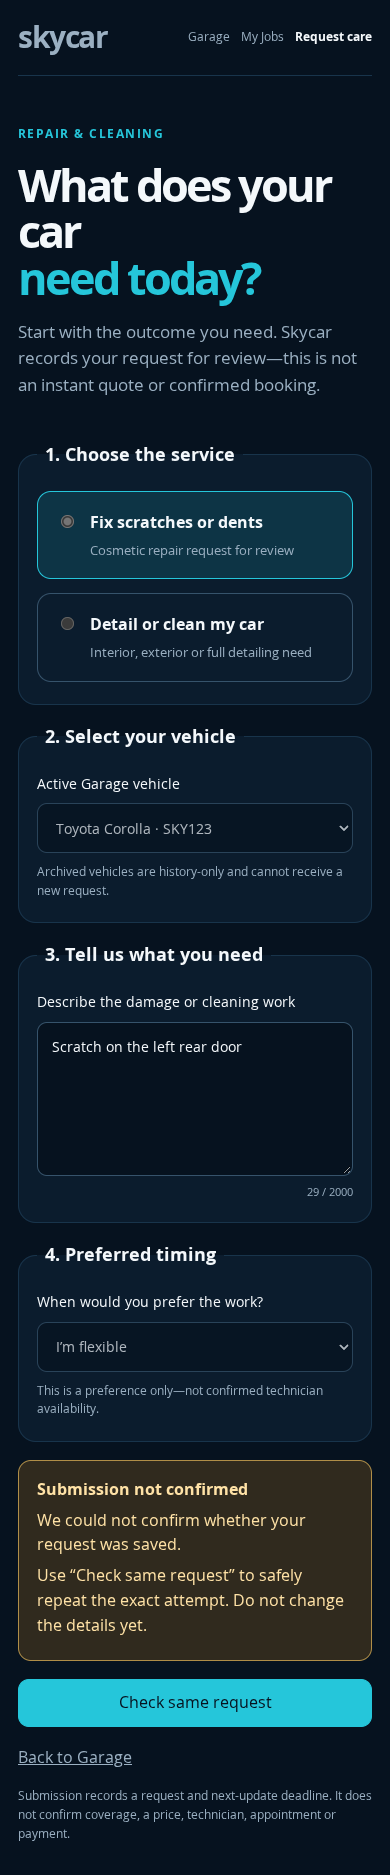
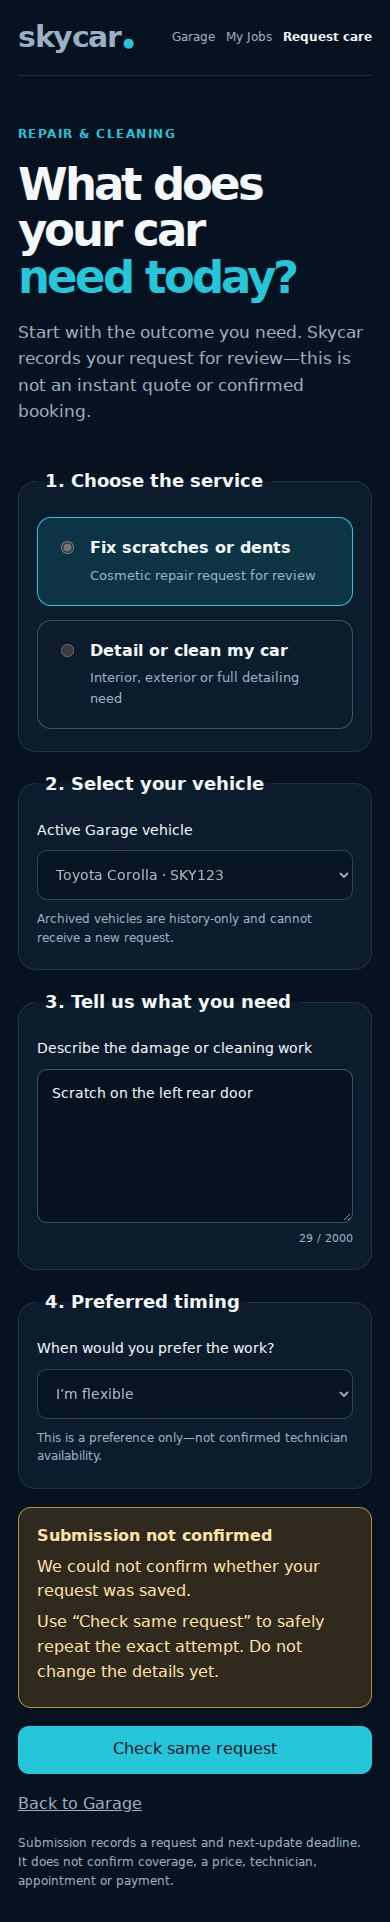
fix(care): preserve request state across focus

diff --git a/src/features/care/request-form.tsx b/src/features/care/request-form.tsx
@@ -82,36 +82,50 @@ export function CareRequestForm() {
   const [access, setAccess] = useState<AccessState>("ready");
   const [error, setError] = useState<SubmitError | null>(null);
   const [uncertain, setUncertain] = useState(false);
+  const selectedVehicle = useRef("");
   const pending = useRef<Pending | null>(null);
   const controller = useRef<AbortController | null>(null);
   const accountEpoch = useRef(0);
+
+  const selectVehicle = useCallback((id: string) => {
+    selectedVehicle.current = id;
+    setVehicleId(id);
+  }, []);
 
   const clearAccountState = useCallback(() => {
     accountEpoch.current += 1;
     pending.current = null;
     setVehicles([]);
-    setVehicleId("");
+    selectVehicle("");
     setService("repair");
     setDescription("");
     setPreferredWindow("flexible");
     setError(null);
     setUncertain(false);
-  }, []);
+  }, [selectVehicle]);
 
   const loadVehicles = useCallback(async () => {
+    // A pending key/body is the customer's one durable command. Background
+    // focus/page-return refreshes must not invalidate it or create a second one.
+    if (pending.current) return;
     controller.current?.abort();
     const current = new AbortController(); controller.current = current;
-    clearAccountState();
+    const previousVehicle = selectedVehicle.current;
     setLoading(true); setAccess("ready");
     try {
       const result = await loadActiveVehicles(current.signal);
       if (current.signal.aborted) return;
-      setVehicles(result); setVehicleId(result[0]?.id ?? "");
+      const stillOwned = previousVehicle && result.some(vehicle => vehicle.id === previousVehicle);
+      if (previousVehicle && !stillOwned) clearAccountState();
+      setVehicles(result);
+      selectVehicle(stillOwned ? previousVehicle : (result[0]?.id ?? ""));
     } catch (caught) {
       if (current.signal.aborted) return;
-      setAccess(accessState(caught));
+      const nextAccess = accessState(caught);
+      if (["session", "access"].includes(nextAccess)) clearAccountState();
+      setAccess(nextAccess);
     } finally { if (!current.signal.aborted) setLoading(false); }
-  }, [clearAccountState]);
+  }, [clearAccountState, selectVehicle]);
 
   useEffect(() => {
     let active = true;
@@ -154,7 +168,7 @@ export function CareRequestForm() {
         clearAccountState();
         setAccess(next.status === 401 ? "session" : "access");
       }
-      if (next.status === 404) { setVehicles([]); setVehicleId(""); setAccess("vehicle"); }
+      if (next.status === 404) { clearAccountState(); setAccess("vehicle"); }
       if (next.status === 409) setAccess("conflict");
       setError(next);
     } finally { setSaving(false); }
@@ -178,7 +192,7 @@ export function CareRequestForm() {
         <label><input type="radio" name="service" value="repair" checked={service === "repair"} onChange={() => setService("repair")} /><span><strong>Fix scratches or dents</strong><small>Cosmetic repair request for review</small></span></label>
         <label><input type="radio" name="service" value="cleaning" checked={service === "cleaning"} onChange={() => setService("cleaning")} /><span><strong>Detail or clean my car</strong><small>Interior, exterior or full detailing need</small></span></label>
       </div></fieldset>
-      <fieldset disabled={disabled}><legend>2. Select your vehicle</legend><label className="care-field" htmlFor="care-vehicle">Active Garage vehicle<select id="care-vehicle" required value={vehicleId} onChange={event => setVehicleId(event.target.value)}>{vehicles.map(vehicle => <option value={vehicle.id} key={vehicle.id}>{vehicleName(vehicle)}</option>)}</select></label><p className="care-help">Archived vehicles are history-only and cannot receive a new request.</p></fieldset>
+      <fieldset disabled={disabled}><legend>2. Select your vehicle</legend><label className="care-field" htmlFor="care-vehicle">Active Garage vehicle<select id="care-vehicle" required value={vehicleId} onChange={event => selectVehicle(event.target.value)}>{vehicles.map(vehicle => <option value={vehicle.id} key={vehicle.id}>{vehicleName(vehicle)}</option>)}</select></label><p className="care-help">Archived vehicles are history-only and cannot receive a new request.</p></fieldset>
       <fieldset disabled={disabled}><legend>3. Tell us what you need</legend><label className="care-field" htmlFor="care-description">Describe the damage or cleaning work<textarea id="care-description" required minLength={10} maxLength={2000} rows={6} value={description} onChange={event => setDescription(event.target.value)} placeholder={service === "repair" ? "Example: Scratch on the left rear door and a small dent near the handle." : "Example: Full interior detail with attention to the rear seats."} /></label><span className="care-count">{[...description].length} / 2000</span></fieldset>
       <fieldset disabled={disabled}><legend>4. Preferred timing</legend><label className="care-field" htmlFor="care-window">When would you prefer the work?<select id="care-window" value={preferredWindow} onChange={event => setPreferredWindow(event.target.value as CareInput["preferred_window"])}><option value="one_to_two_business_days">Within 1–2 business days</option><option value="seven_to_fourteen_days">Within 7–14 days</option><option value="flexible">I’m flexible</option></select></label><p className="care-help">This is a preference only—not confirmed technician availability.</p></fieldset>
       {error && <div className="care-entry-warning" role="alert"><strong>{uncertain ? "Submission not confirmed" : "Request not submitted"}</strong><p>{error.message}</p>{uncertain && <p>Use “Check same request” to safely repeat the exact attempt. Do not change the details yet.</p>}{error.status === 404 && <button type="button" onClick={() => void loadVehicles()}>Reload active vehicles</button>}</div>}

diff --git a/docs/CARE_ENTRY_UI.md b/docs/CARE_ENTRY_UI.md
@@ -11,11 +11,14 @@ idempotency key. A transient or uncertain response locks the form and reuses the
 exact key and body. A verified receipt navigates to `/care/requests/:id`. Archived
 vehicles are excluded and no second vehicle ownership model is created.
 
-Account revalidation on focus, page return or an explicit retry first clears the
-prior account's vehicle list, draft, preferences and pending request key/body. A
-received malformed 4xx is definitive and unlocks the form for correction; an
-unreadable 5xx or network failure remains uncertain and preserves the exact
-idempotent attempt.
+Account revalidation on focus, page return or an explicit retry preserves the
+draft when the selected owned vehicle is still present. An access failure or a
+vehicle set that no longer contains the selection clears the prior vehicle list,
+draft, preferences and pending request key/body. Revalidation is deferred while
+an idempotent attempt is in flight or uncertain, so focus cannot discard the
+attempt or create a second command. A received malformed 4xx is definitive and
+unlocks the form for correction; an unreadable 5xx or network failure remains
+uncertain and preserves the exact idempotent attempt.
 
 ## Honest boundary
 
@@ -34,8 +37,10 @@ PLAYWRIGHT_MODULE=<playwright-index.js> CHROMIUM_PATH=<chromium-binary> node tes
 
 The fixture contains no customer data. It verifies the public entry link, active
 vehicle selection, exact request payload, same-key/same-body uncertain retry,
-receipt navigation, mobile layout, empty Garage, populated-draft redaction across
-an account change, malformed-4xx correction and malformed-5xx exact retry.
+same-account focus preservation, one-command behavior across in-flight and
+uncertain focus, receipt navigation, mobile layout, empty Garage,
+populated-draft redaction across an account change, malformed-4xx correction and
+malformed-5xx exact retry.
 Screenshots are synthetic UI evidence—not hosted Supabase, real sign-in, physical
 device or production deployment evidence.
 
